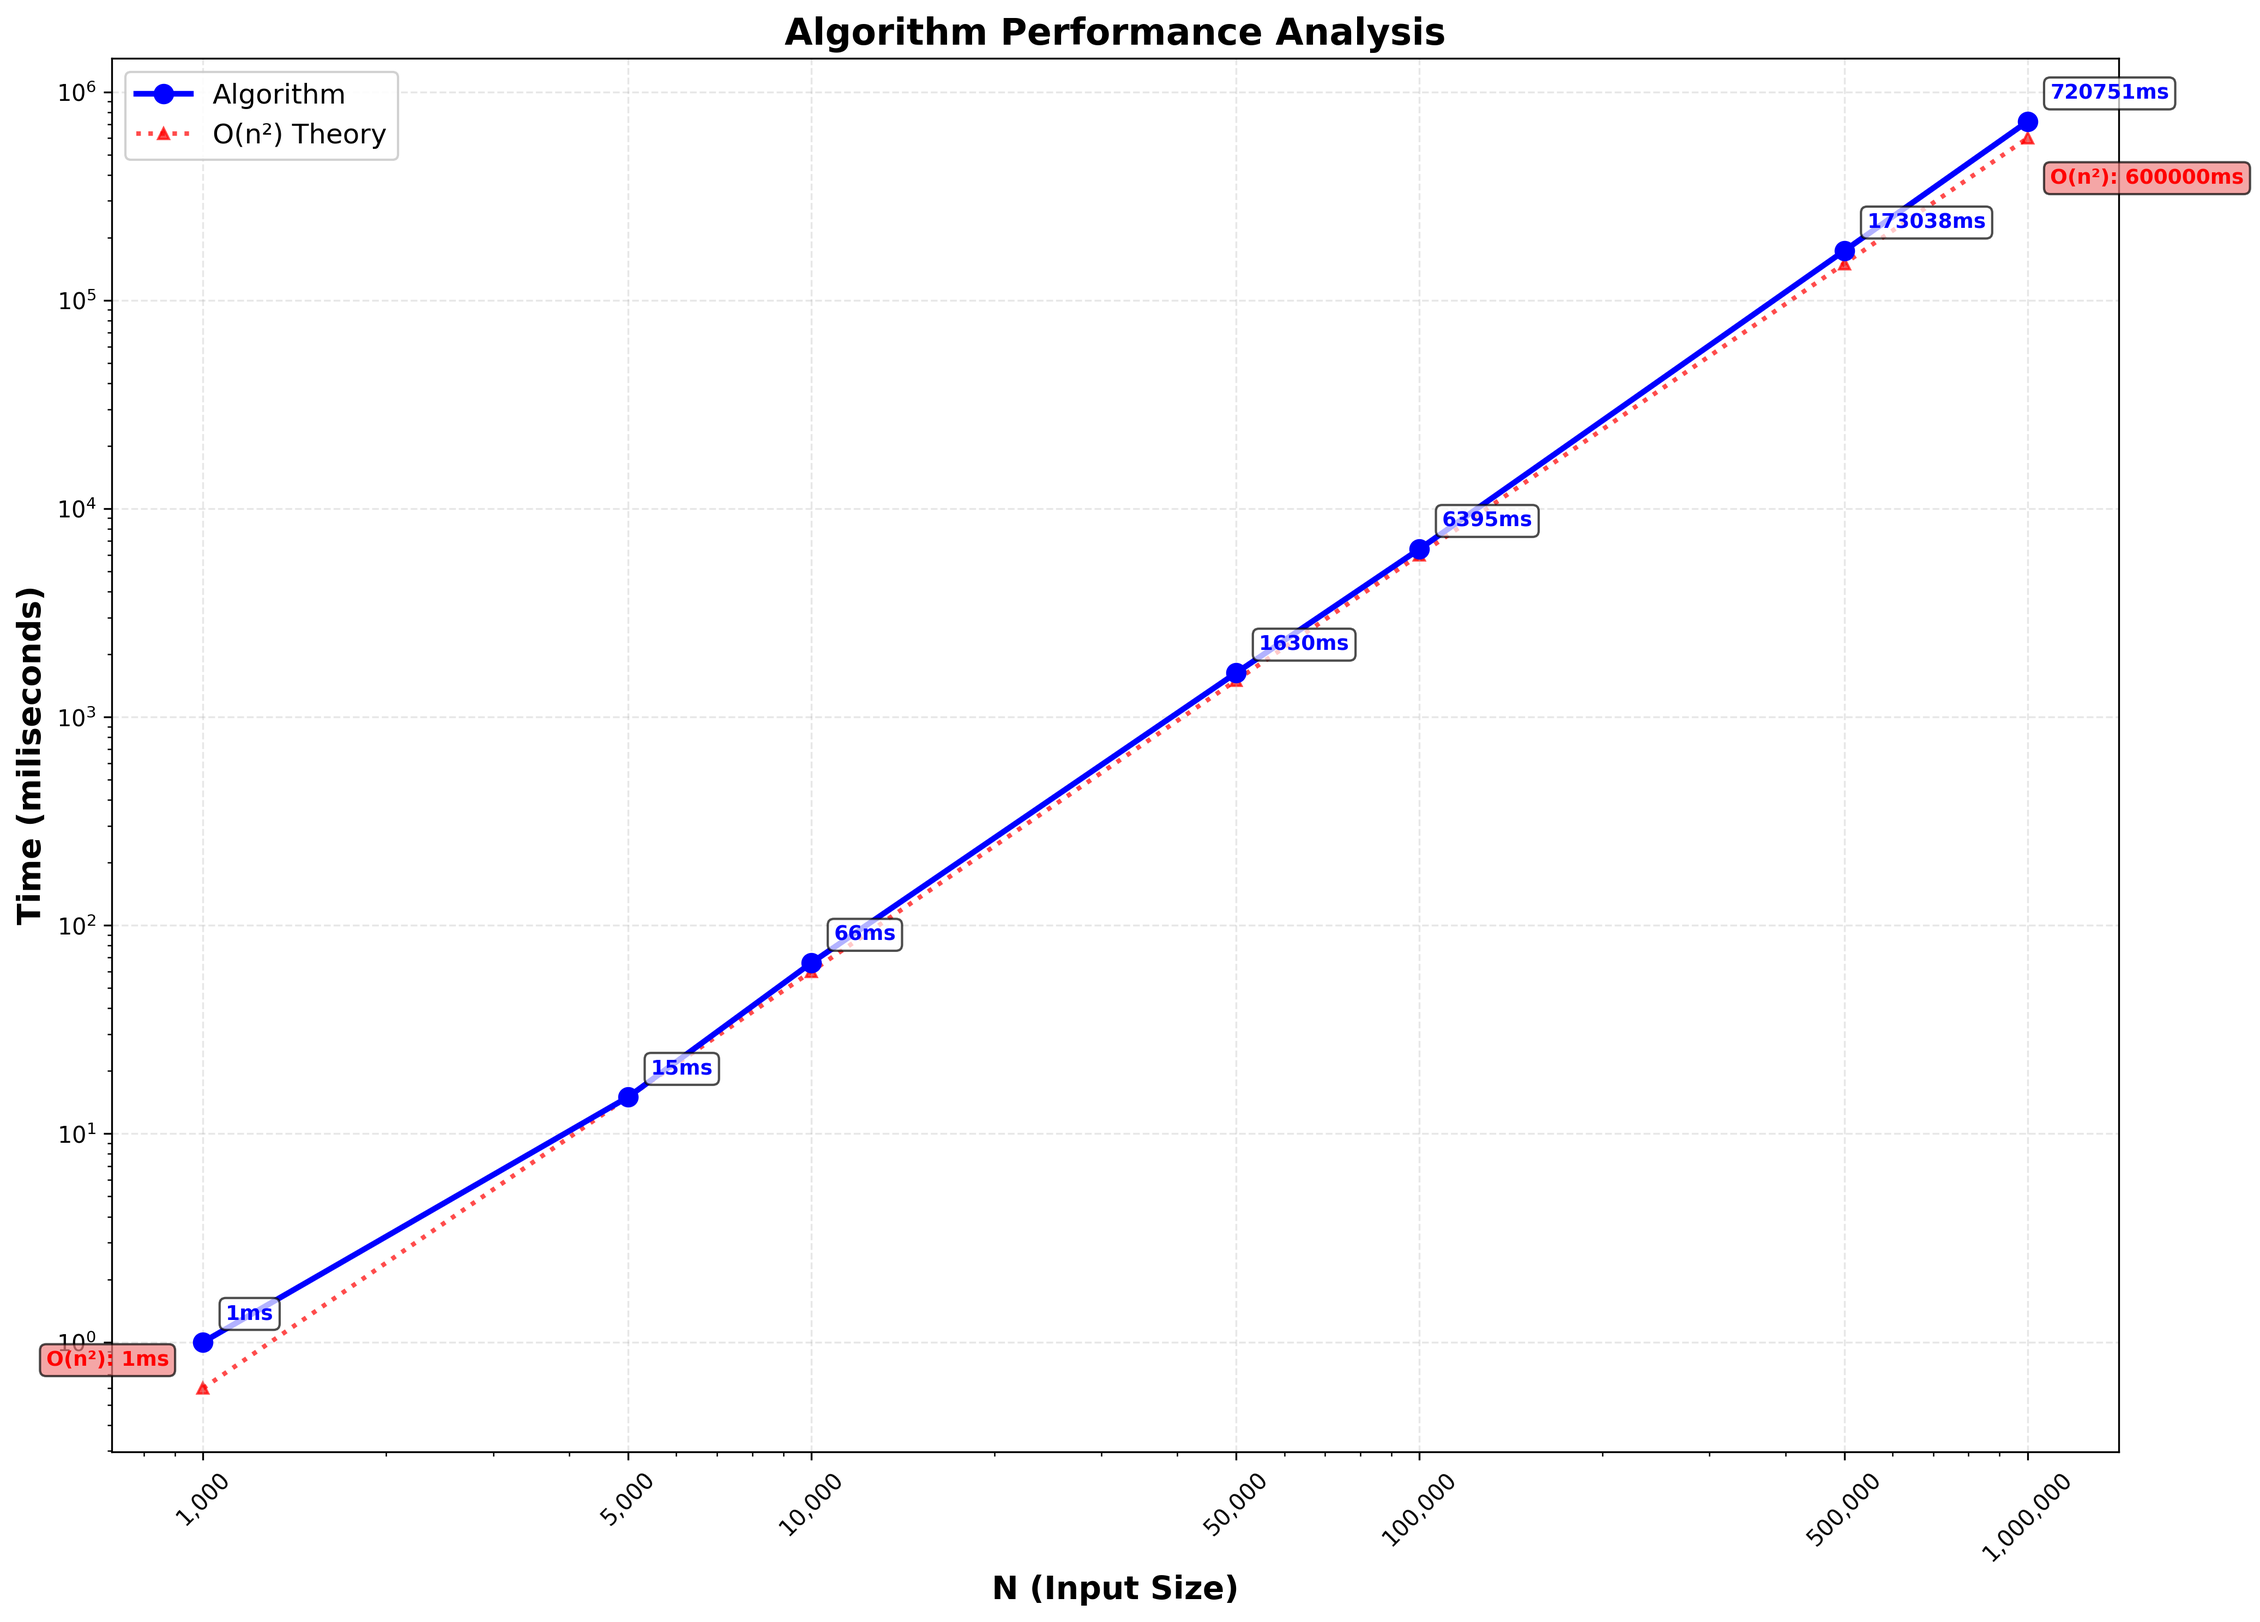
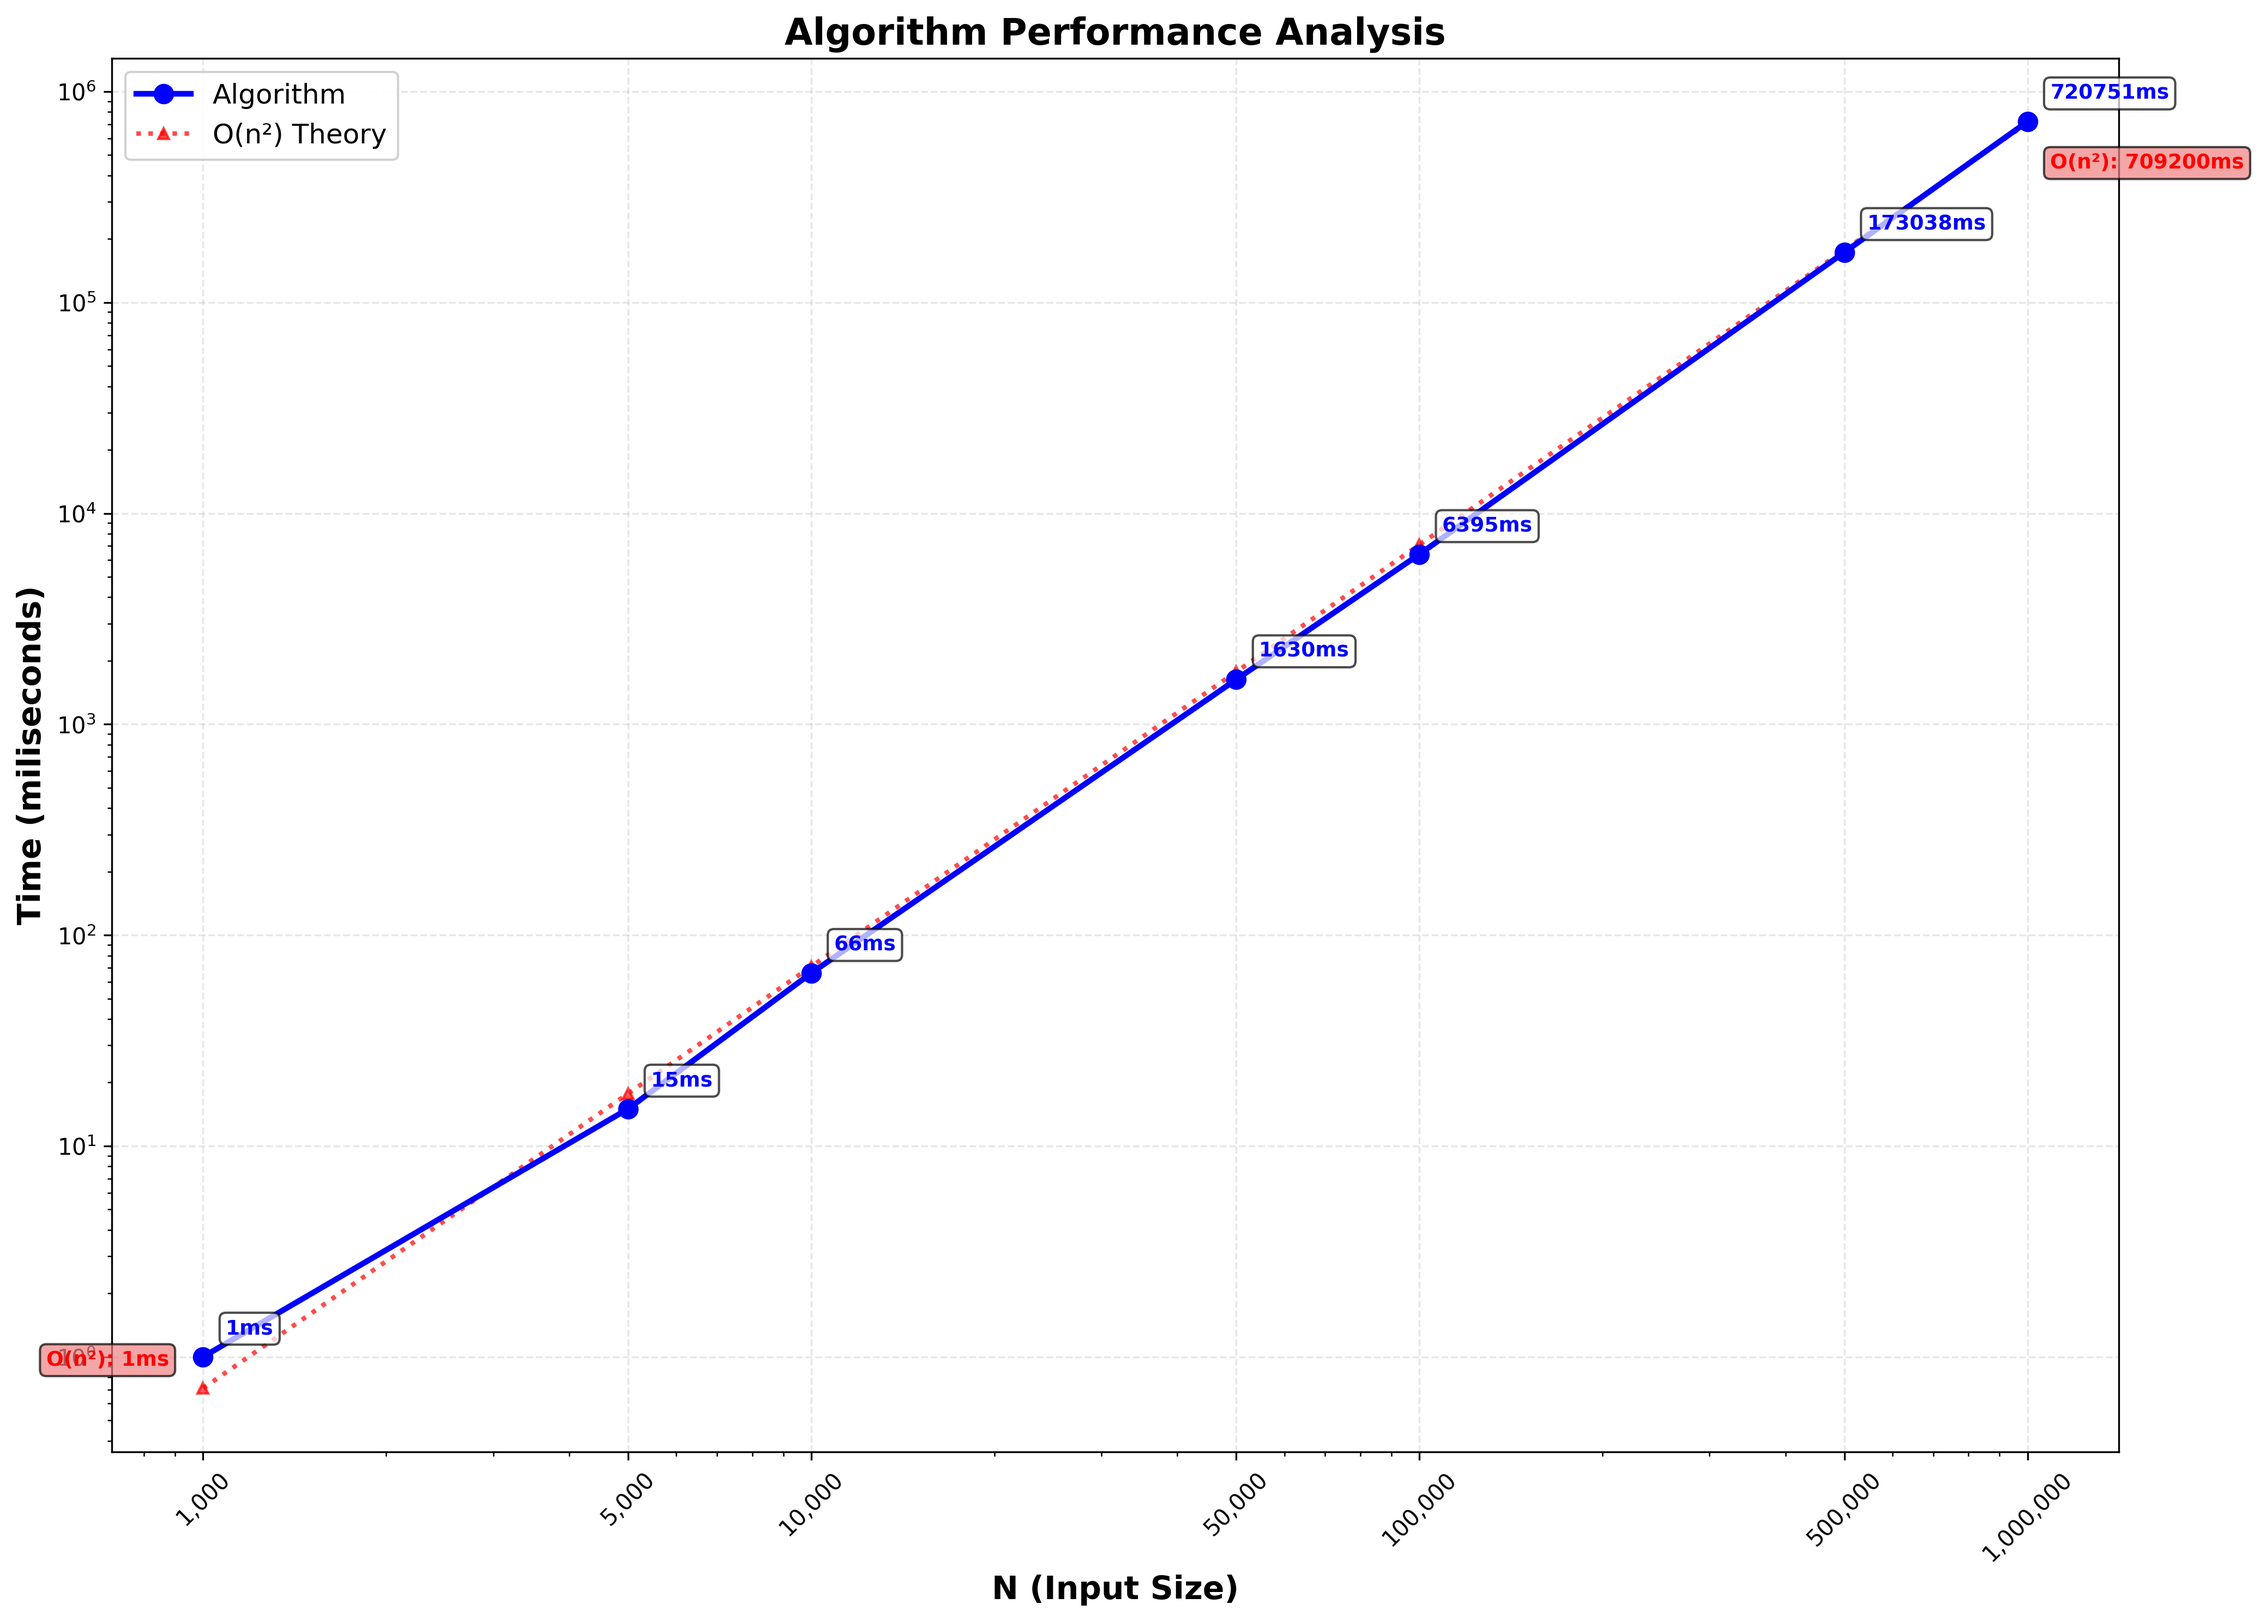
Added theoretical O(N^2) on graph

diff --git a/Array/rffe.py b/Array/rffe.py
@@ -1,0 +1,21 @@
+# Часть кода Python, в которой считаются точки теоретической O(N^2)
+import pandas as pd
+import matplotlib.pyplot as plt
+# Для контекста создание Датафрейма:
+data = {
+    'N': [1000, 5000, 10000, 50000, 100000, 500000, 1000000],
+    'Answer': [977, 1809, 3617, 34465, 68929, 475713, 951425],
+    'Time (miliseconds)': [1, 15, 66, 1630, 6395, 173038, 720751]
+}
+
+df = pd.DataFrame(data)
+
+# Собственно расчёт точек по теоретической O(N^2) (Используя среднее значение)
+
+# Находим коэффициент, рассчитывая среднее значение (Сумма всех получившихся делений значений времени на N^2, делённая на количество точек)
+scale_factor_n2 = (df['Time (miliseconds)'] / (df['N'] ** 2)).mean()
+
+# Создаём новый столбец в датафрейме для теоретического графика O(N^2)
+df['O(n²) Reference'] = scale_factor_n2 * (df['N'] ** 2)
+
+print(df)
